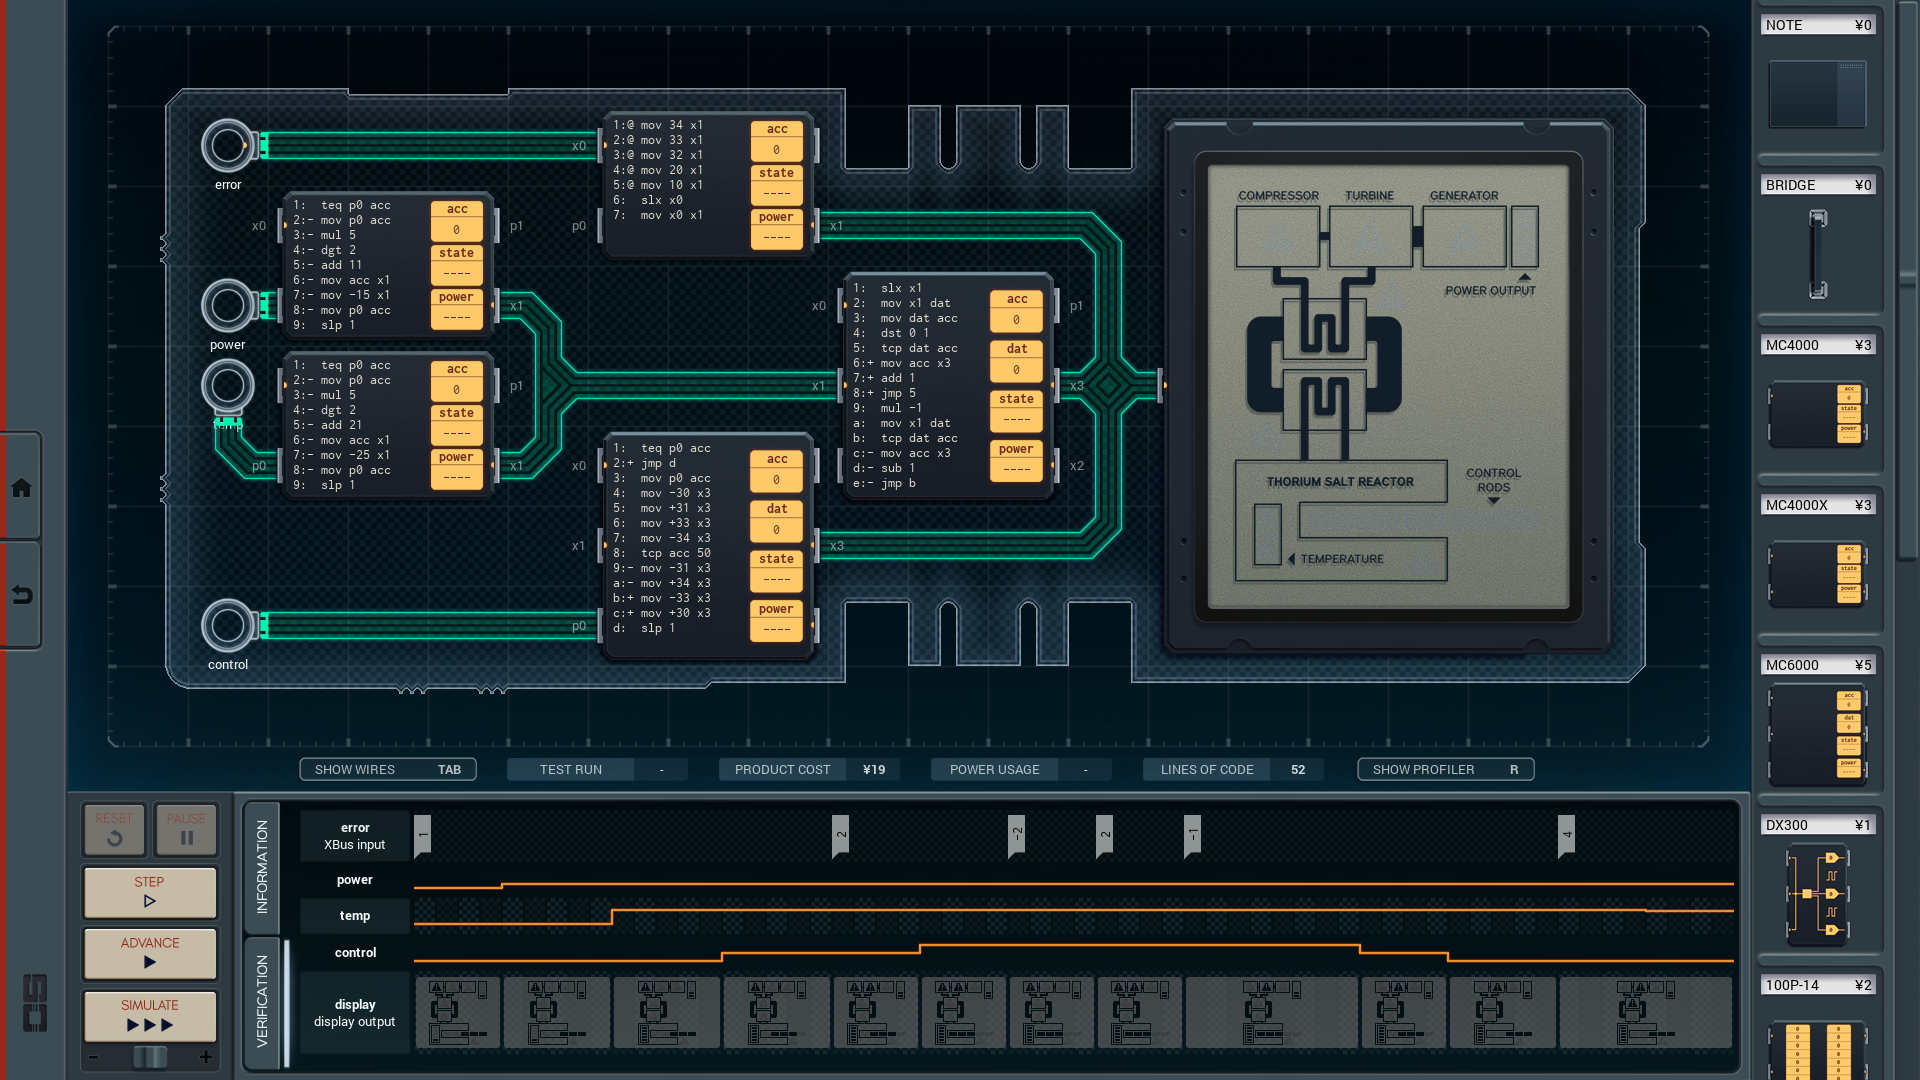
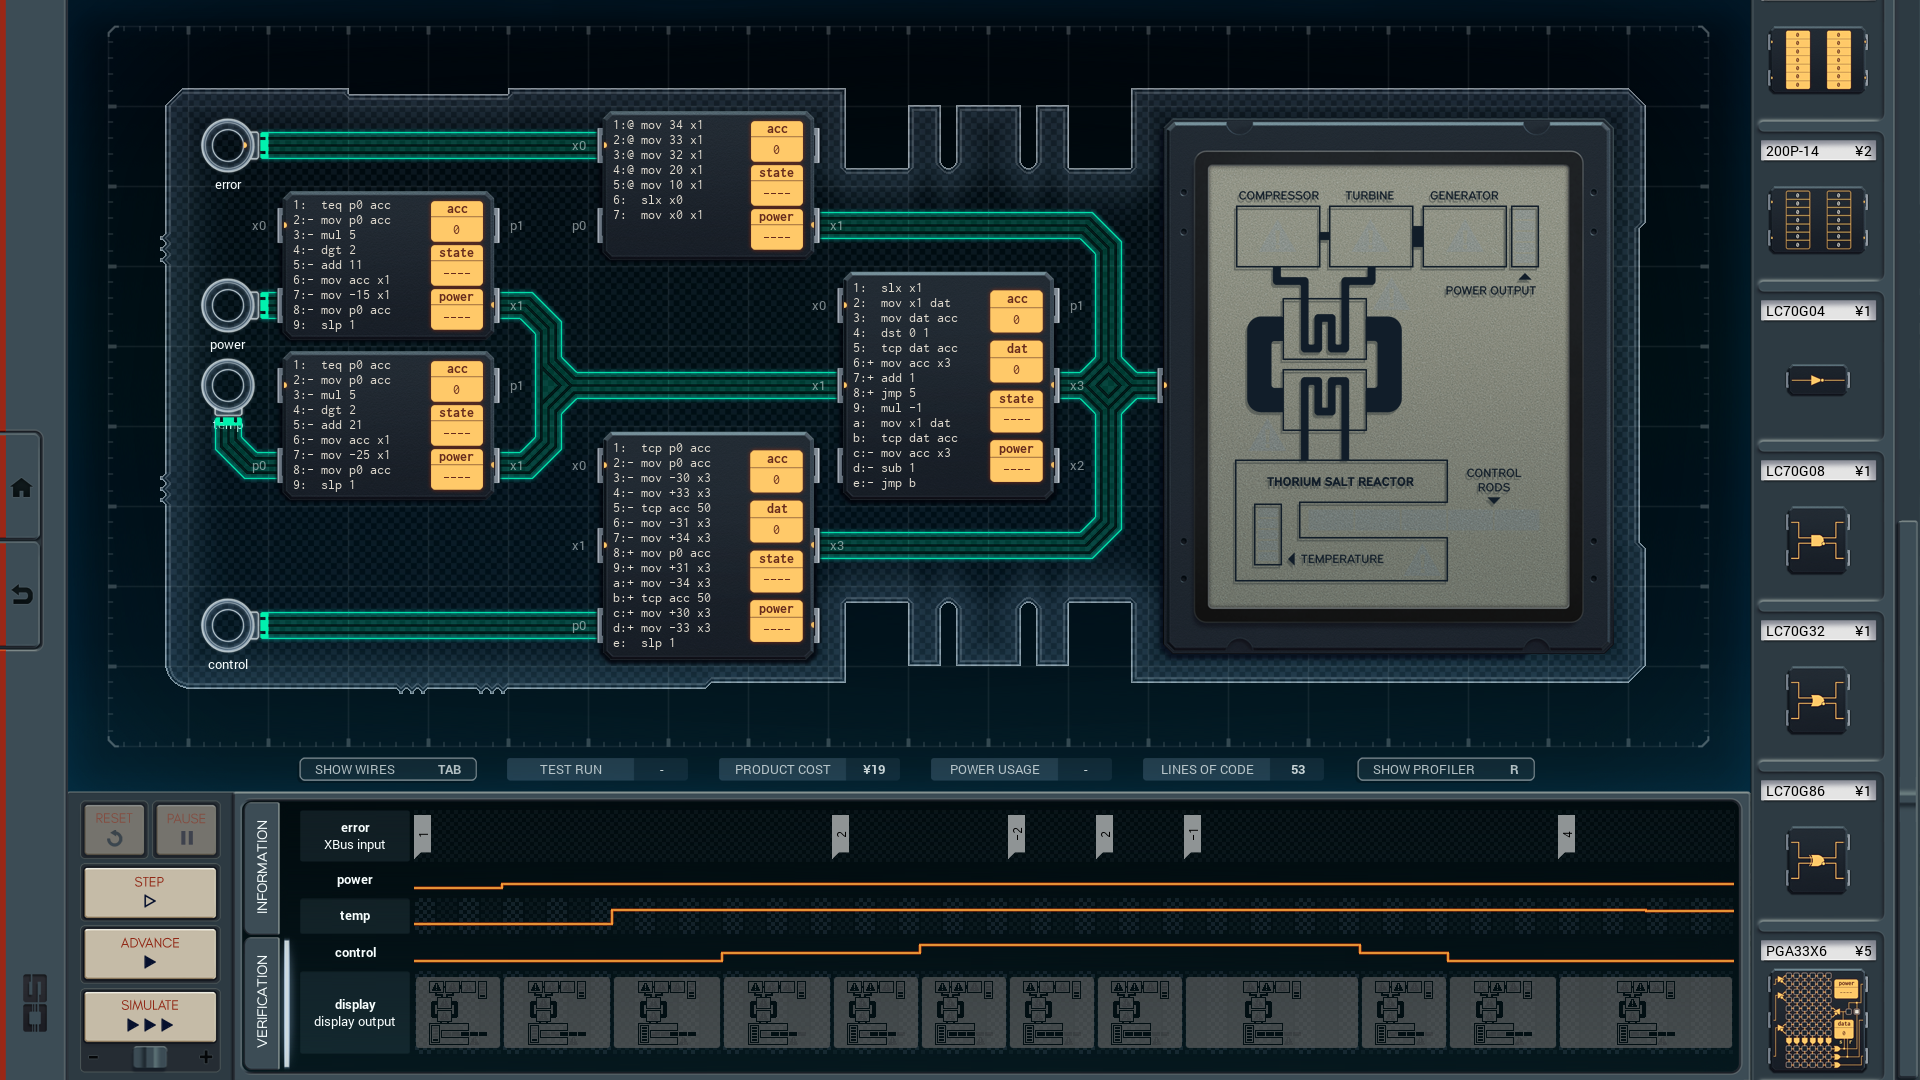
2023/06/04 Optimized the min power solution for Thorium Reactor Status Monitor.
[BEF] 19C / 761P / 52L
[AFT] 19C / 697P / 53L

Changed region(s): [[0.9062, 0.0, 1.0, 1.0], [0.3438, 0.4278, 0.375, 0.4889], [0.3438, 0.55, 0.375, 0.5806]]

diff --git a/038-thorium-reactor-status-monitor/README.md b/038-thorium-reactor-status-monitor/README.md
@@ -3,7 +3,7 @@
 
 ![screenshot0](https://github.com/shiawasenahikari/Shenzhen-IO-Solutions/blob/master/038-thorium-reactor-status-monitor/screenshot0.png)
 
-19/761/52 (MIN POWER) SOLUTION
+19/697/53 (MIN POWER) SOLUTION
 ------------------------------
 
 ![screenshot1](https://github.com/shiawasenahikari/Shenzhen-IO-Solutions/blob/master/038-thorium-reactor-status-monitor/screenshot1.png)
